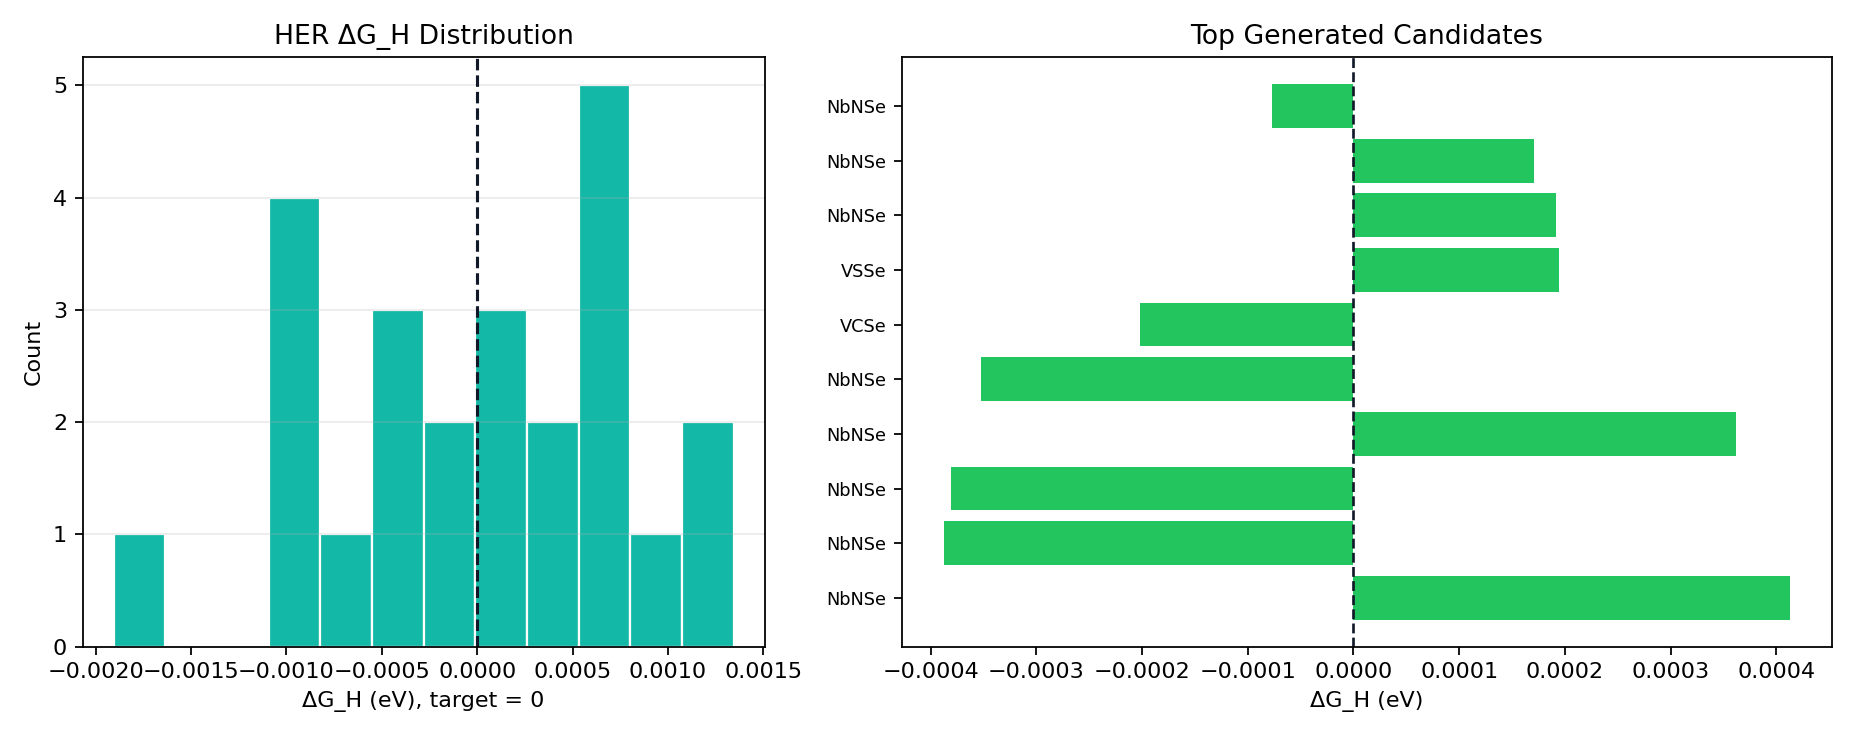
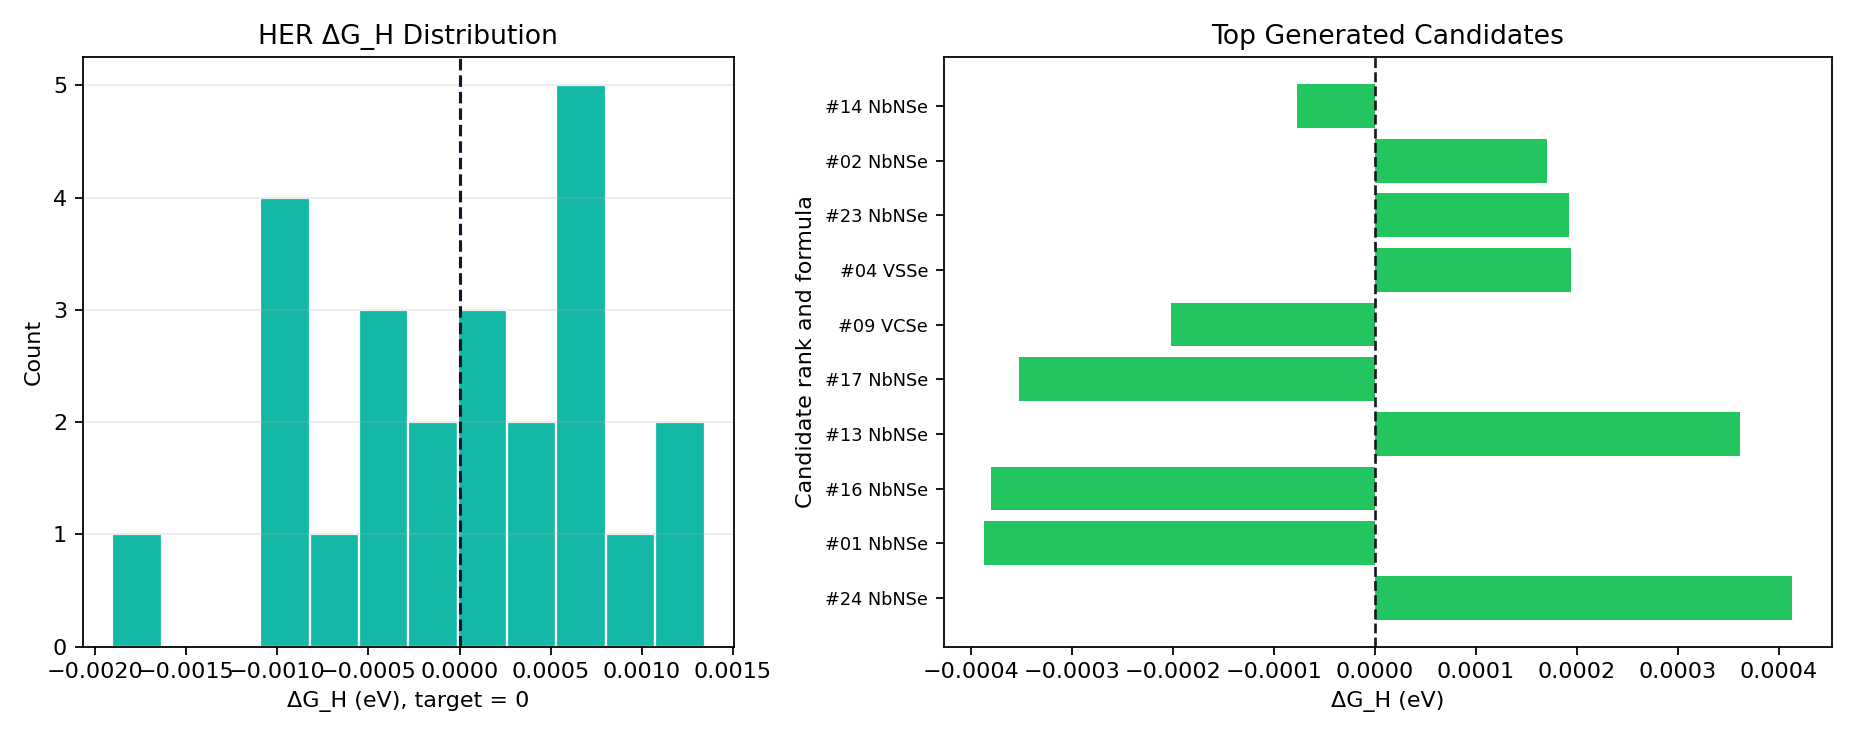
Clarify QE validation and HER plot labels

diff --git a/utils/vis.py b/utils/vis.py
@@ -36,7 +36,7 @@ def plot_her_performance(records: Iterable[MaterialRecord], path: str | Path) ->
     path = _ensure_parent(path)
     records = list(records)
     values = np.array([record.properties["delta_g_h"] for record in records], dtype=float)
-    names = [record.formula for record in records]
+    names = [f"#{idx:02d} {record.formula}" for idx, record in enumerate(records, start=1)]
     order = np.argsort(np.abs(values))
     values = values[order]
     names = [names[i] for i in order]
@@ -57,6 +57,7 @@ def plot_her_performance(records: Iterable[MaterialRecord], path: str | Path) ->
     ax2.invert_yaxis()
     ax2.set_title("Top Generated Candidates")
     ax2.set_xlabel("ΔG_H (eV)")
+    ax2.set_ylabel("Candidate rank and formula")
     fig.tight_layout()
     fig.savefig(path)
     plt.close(fig)

diff --git a/README.md b/README.md
@@ -394,15 +394,43 @@ dG_H ~= dE_H + 0.24 eV
 
 详细说明见 [docs/dft_validation.md](docs/dft_validation.md)。
 
-本机已经用 WSL + conda-forge QE 7.5 完成部分真实验证，输出已同步到：
+本机已经用 WSL + conda-forge QE 7.5 完成真实轻量 DFT 验证，输出已同步到：
 
 ```text
 validation_outputs/qe/
 results/dft_validation_summary.json
 docs/dft_validation_results.md
+validation_outputs/qe_expanded/
+results_expanded/dft_screening_summary.json
+docs/dft_validation_expanded_results.md
 ```
 
-关键 QE 结果：
+### QE 真实验证细节
+
+本项目不只生成了 QE 输入文件，还实际运行了 Quantum ESPRESSO。验证环境和关键设置如下：
+
+```text
+QE engine: conda-forge Quantum ESPRESSO 7.5
+Runtime: WSL UbuntuQE
+Functional: PBE
+Pseudopotentials: PSLibrary RRKJUS UPF
+k-points: 4 x 4 x 1
+Clean surface cutoff: ecutwfc/ecutrho = 35/280 Ry
+H adsorption cutoff: ecutwfc/ecutrho = 35/420 Ry
+H2 reference total energy: -2.32383790 Ry
+HER approximation: DeltaG_H ~= E(surface+H)-E(surface)-0.5*E(H2)+0.24 eV
+```
+
+实际跑过的验证任务包括：
+
+- `relax`：二维材料 clean surface 结构弛豫。
+- `H adsorption relax`：在弛豫后的表面加入 H，计算吸附态能量。
+- `Gamma phonon`：Gamma 点声子，用于筛掉明显动力学不稳定结构。
+- `H2 reference`：计算 H2 参考能量，用于近似 HER `DeltaG_H`。
+
+为避免从 QE 日志中误读结构，扩展筛选脚本采用严格规则：只有 clean relax 出现正常 BFGS 收敛、明确 `Begin final coordinates` / `End final coordinates` 和 `ATOMIC_POSITIONS` 块时，才继续生成 H 吸附和 phonon；如果只是 `JOB DONE` 但达到最大步数，则标记为 `relax_not_converged`，不继续后续计算。
+
+关键 QE 结果汇总：
 
 | Candidate | Best site | Approx dG_H (eV) | Gamma phonon | Conclusion |
 |---|---|---:|---|---|
@@ -414,6 +442,16 @@ docs/dft_validation_results.md
 | Expanded VNSe rank-3 | n/a | n/a | skipped | relax_not_converged |
 | Expanded VSSe rank-4 | top | 0.771 | large imaginary modes | rejected |
 | Expanded VNSe rank-5 | n/a | n/a | skipped | relax_not_converged |
+
+扩展重训 top-5 的真实 QE 明细：
+
+| Rank | Candidate | Clean relax | H adsorption | Approx DeltaG_H (eV) | Gamma phonon min | Decision |
+|---:|---|---|---|---:|---:|---|
+| 1 | VCSe | converged | converged | 0.423 | -432.7 cm^-1 | rejected: large imaginary modes |
+| 2 | VCSe | relax_not_converged | skipped | n/a | n/a | rejected |
+| 3 | VNSe | relax_not_converged | skipped | n/a | n/a | rejected |
+| 4 | VSSe | converged | converged | 0.771 | -917.3 cm^-1 | rejected: weak HER and large imaginary modes |
+| 5 | VNSe | relax_not_converged | skipped | n/a | n/a | rejected |
 
 扩展重训 top-5 的真实 QE 轻量筛选没有得到同时满足近零 HER 与 Gamma 点动力学稳定的最终候选。结论不是代码失败，而是重要的材料科学验证信号：surrogate 排名与 PBE/QE 标签之间存在偏差，下一轮应该把 `relax_not_converged`、大虚频和真实 `DeltaG_H` 作为 hard negative / active-learning 标签回填后再重训。
 
